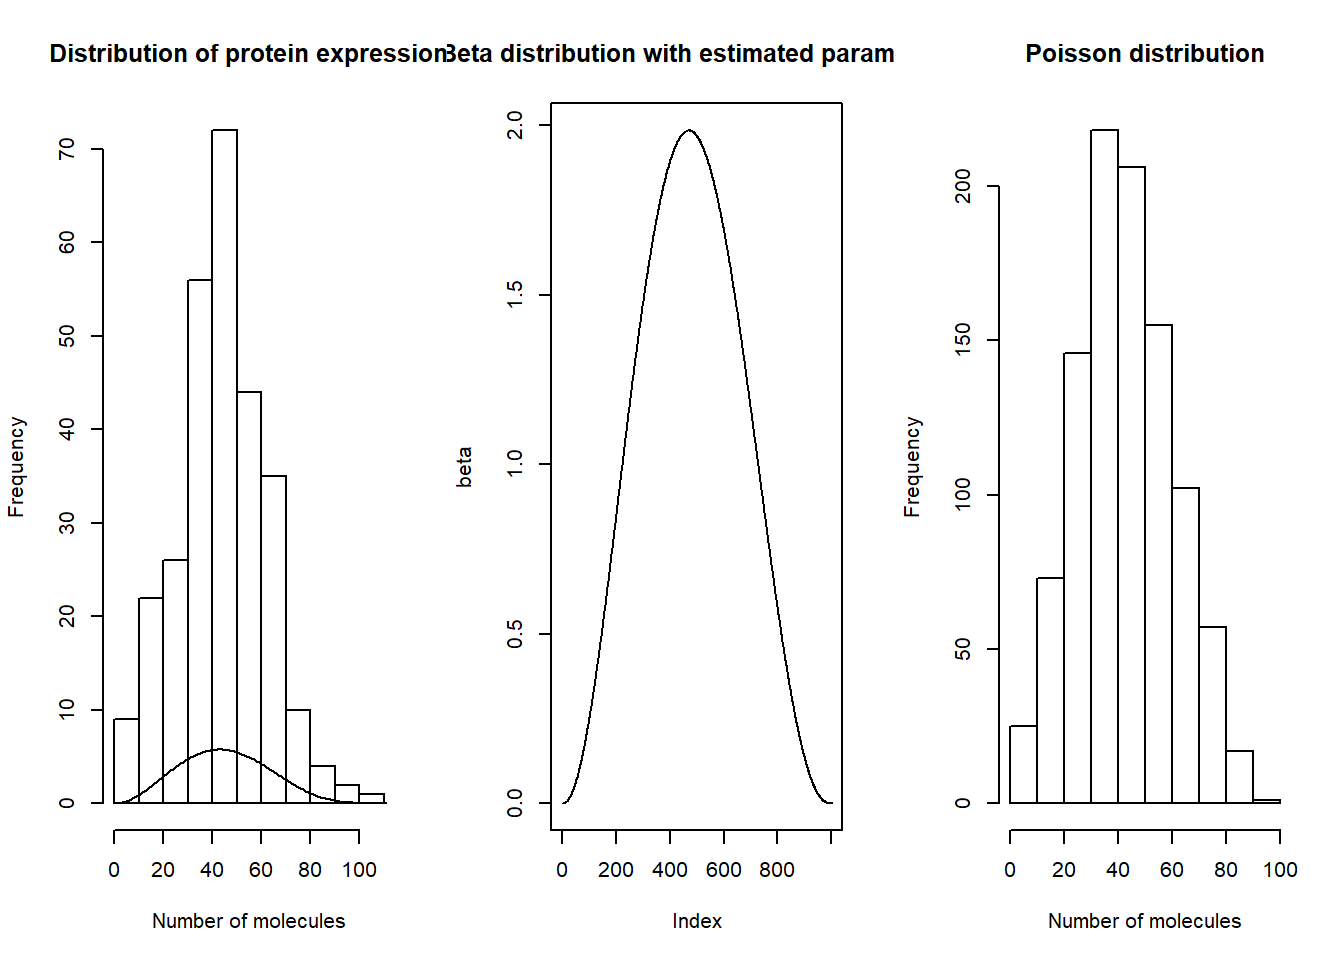
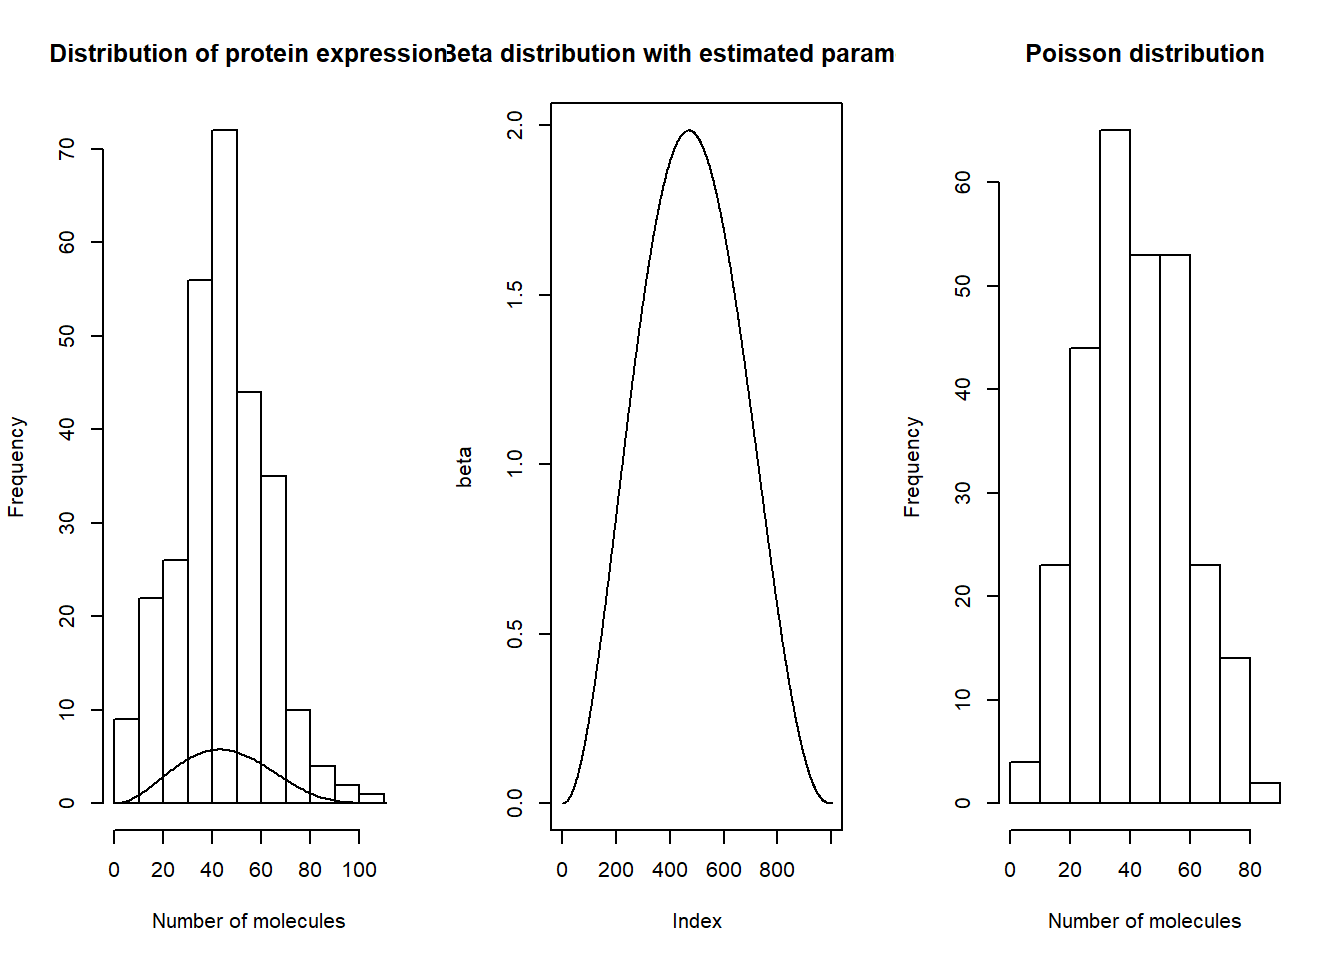
Build site.

diff --git a/docs/Question_1.html b/docs/Question_1.html
@@ -11,6 +11,7 @@
 
 <meta name="author" content="Margarita Orlova" />
 
+<meta name="date" content="2020-02-08" />
 
 <title>Question_1</title>
 
@@ -358,7 +359,7 @@ This reproducible <a href="http://rmarkdown.rstudio.com">R Markdown</a> analysis
 <hr>
 </div>
 <div id="checks" class="tab-pane fade">
-<div id="workflowr-checks" class="panel-group">
+<div class="panel-group" id="workflowr-checks">
 <div class="panel panel-default">
 <div class="panel-heading">
 <p class="panel-title">
@@ -466,10 +467,10 @@ analysis/clean_dataset_for_analysis.txt
 <div class="panel panel-default">
 <div class="panel-heading">
 <p class="panel-title">
-<a data-toggle="collapse" data-parent="#workflowr-checks" href="#strongRepositoryversionstrongahrefhttpsgithubcomMargareth2407ThesissingleRNAtree951df38a9fd391d87abc03128a824507d9eb099dtargetblank951df38a"> <span class="glyphicon glyphicon-ok text-success" aria-hidden="true"></span> <strong>Repository version:</strong> <a href="https://github.com/Margareth2407/Thesis_single_RNA/tree/951df38a9fd391d87abc03128a824507d9eb099d" target="_blank">951df38</a> </a>
+<a data-toggle="collapse" data-parent="#workflowr-checks" href="#strongRepositoryversionstrongahrefhttpsgithubcomMargareth2407ThesissingleRNAtreebd2b3f55131dc82fdac3a979b85023a7dd89ce26targetblankbd2b3f5a"> <span class="glyphicon glyphicon-ok text-success" aria-hidden="true"></span> <strong>Repository version:</strong> <a href="https://github.com/Margareth2407/Thesis_single_RNA/tree/bd2b3f55131dc82fdac3a979b85023a7dd89ce26" target="_blank">bd2b3f5</a> </a>
 </p>
 </div>
[2 lines of base64/hex data omitted]
 <div class="panel-body">
 <p>
 Great! You are using Git for version control. Tracking code development and connecting the code version to the results is critical for reproducibility. The version displayed above was the version of the Git repository at the time these results were generated. <br><br> Note that you need to be careful to ensure that all relevant files for the analysis have been committed to Git prior to generating the results (you can use <code>wflow_publish</code> or <code>wflow_git_commit</code>). workflowr only checks the R Markdown file, but you know if there are other scripts or data files that it depends on. Below is the status of the Git repository when the results were generated:
@@ -482,7 +483,6 @@ Ignored files:
     Ignored:    analysis/.Rhistory
 
 Untracked files:
-    Untracked:  analysis/Chapter_2_analysis.Rmd
     Untracked:  analysis/Filter.Rmd
     Untracked:  analysis/MLE_and_regression_for_235_genes.Rmd
     Untracked:  analysis/clean_dataset_for_analysis.txt
@@ -547,17 +547,15 @@ estimates=x[[1]]
 info=x[[2]]</code></pre>
 <pre class="r"><code>par(mfrow=c(1,3))
 na18507=top_gene[ , grepl(&quot;NA18507&quot;, names(top_gene))]
-hist(data.matrix(na18507), xlab=&quot;Number of molecules&quot;, main=&quot;Distribution of protein expression&quot;) #Real data
-
+hist(data.matrix(na18507), xlab=&quot;Number of molecules&quot;, main=&quot;Distribution of protein expression&quot;) 
 
 lines(281*dBP(matrix(seq(0,110,by=1)),estimates[20,1],estimates[20,2],estimates[20,3]))
-
 
 beta=dbeta(seq(0,1,by=0.001),estimates[20,1],estimates[20,2])
 plot(beta, main=&quot;Beta distribution with estimated parameters&quot;, type=&quot;l&quot;)
 
-beta=rbeta(1000,estimates[20,1],estimates[20,2])
-poisson=rpois(1000,beta*estimates[20,3])
+beta=rbeta(281,estimates[20,1],estimates[20,2])
+poisson=rpois(281,beta*estimates[20,3])
 hist(poisson, xlab=&quot;Number of molecules&quot;,main=&quot;Poisson distribution&quot;)</code></pre>
 <p><img src="figure/Question_1.Rmd/unnamed-chunk-4-1.png" width="672" style="display: block; margin: auto;" /></p>
 <br>
